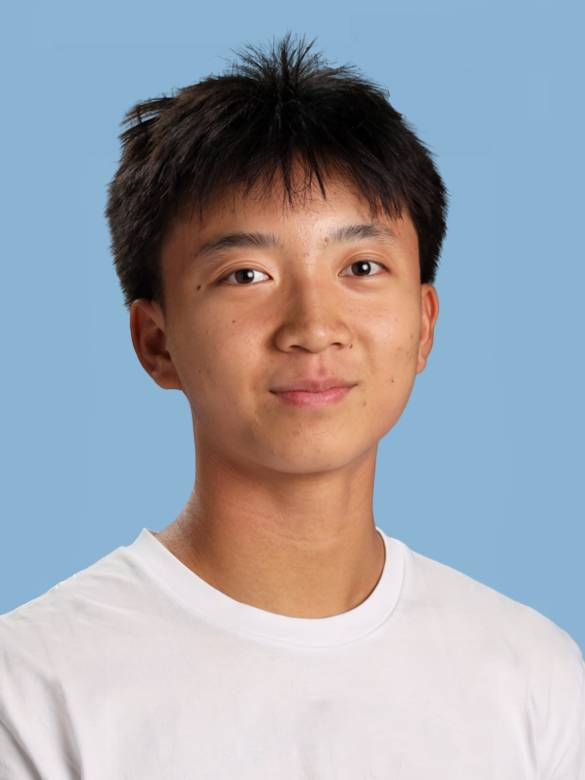
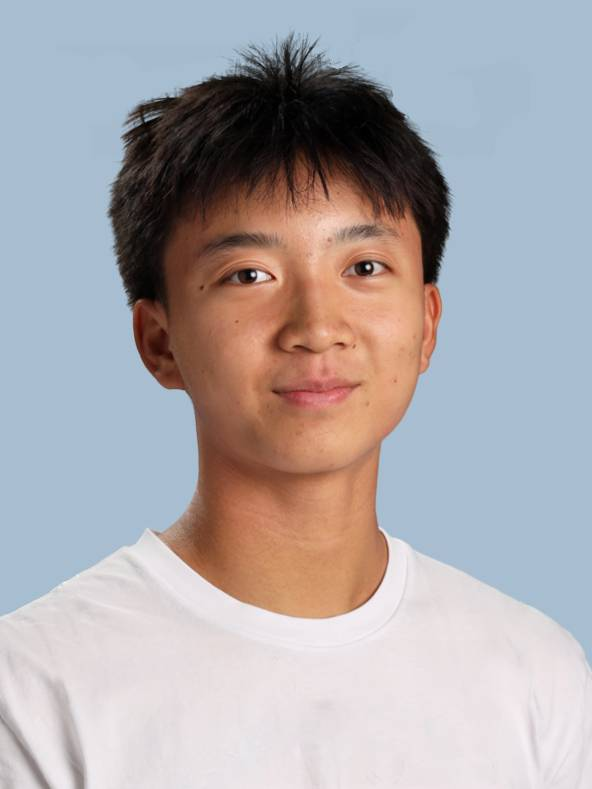
padding changes + bg change

diff --git a/about.html b/about.html
@@ -204,6 +204,7 @@
   .page-about .cta-buttons {
     display: flex; gap: 1rem; justify-content: center;
     flex-wrap: wrap; margin-top: 1.8rem;
+    margin-bottom: 3rem;
   }
 
   /* ============ RESPONSIVE ============ */
@@ -267,7 +268,7 @@
     <!-- ==========================================
     MISSION
     ========================================== -->
-    <section class="mission-section">
+    <section class="mission-section" style="padding-top: 2rem; padding-bottom: 3rem">
       <div class="container">
         <span class="eyebrow">Our Mission</span>
         <h2>Give young artists a platform to share their creativity while using that creativity to help others.</h2>
@@ -582,16 +583,13 @@
     <section class="cta-section">
       <div class="container">
         <span class="eyebrow">Help Build the Next Tomorrow</span>
-        <h2 style="margin-bottom: 0.8rem; max-width: 700px; margin-left: auto; margin-right: auto;">Whether you're an artist, volunteer, supporter, or bidder, there's a place for you at Bid For Tomorrow.</h2>
+        <h2 style="margin-bottom: 2rem; max-width: 700px; margin-left: auto; margin-right: auto;">Whether you're an artist, volunteer, supporter, or bidder, there's a place for you at Bid For Tomorrow.</h2>
         <div class="cta-buttons">
           <a href="index.html#get-involved" class="btn btn-primary">Submit Your Artwork</a>
           <a href="index.html#get-involved" class="btn btn-outline">Get Involved</a>
         </div>
       </div>
     </section>
-
-
-
   <link rel="stylesheet" href="nav.css">
 </head>
 <body>
@@ -599,9 +597,9 @@
     <!-- ==========================================
     CONTACT
     ========================================== -->
-    <section class="contact-section" id="contact">
+    <section class="contact-section" id="contact" style="padding-top: 1rem;">
   <div class="container">
-    <div style="margin-bottom: 2rem;">
+    <div style="margin-bottom: 2rem; margin-top: 1rem;">
       <h2>Connect with Bid For Tomorrow</h2>
     </div>
     <div class="contact-inner">
